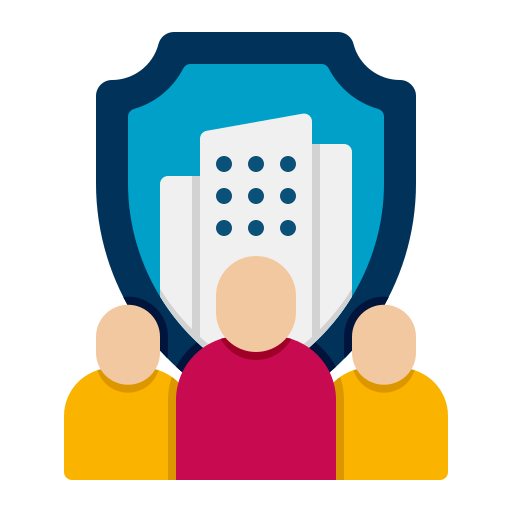
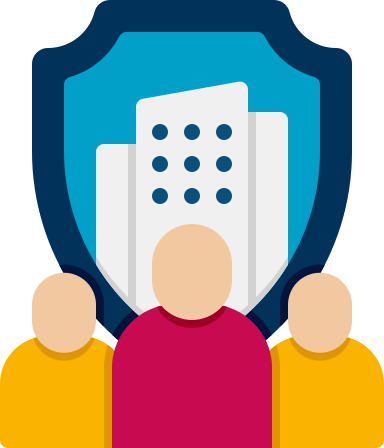
Ajustar tamaño iconos de tarjetas

diff --git a/index.html b/index.html
@@ -263,7 +263,7 @@
                                     Seguros de<br>Hogar
                                 </h6>
                                 <div class="card-body">
-                                    <img src="/img/index/hogar.avif" class="card-img"
+                                    <img src="/img/index/hogar.jpeg" class="card-img"
                                         style="aspect-ratio: 16 / 9; object-fit: contain;"
                                         alt="Una casa con un símbolo de verificación
                                         y un ícono de casa, representando la
@@ -314,7 +314,7 @@
                                     Soluciones<br>Empresariales
                                 </h6>
                                 <div class="card-body">
-                                    <img src="/img/index/empresarial.webp" class="card-img"
+                                    <img src="/img/index/empresarial.jpg" class="card-img"
                                         style="aspect-ratio: 16 / 9; object-fit: contain;"
                                         alt="Edificio con un ícono de escudo,
                                             ilustración en diseño plano, representando
